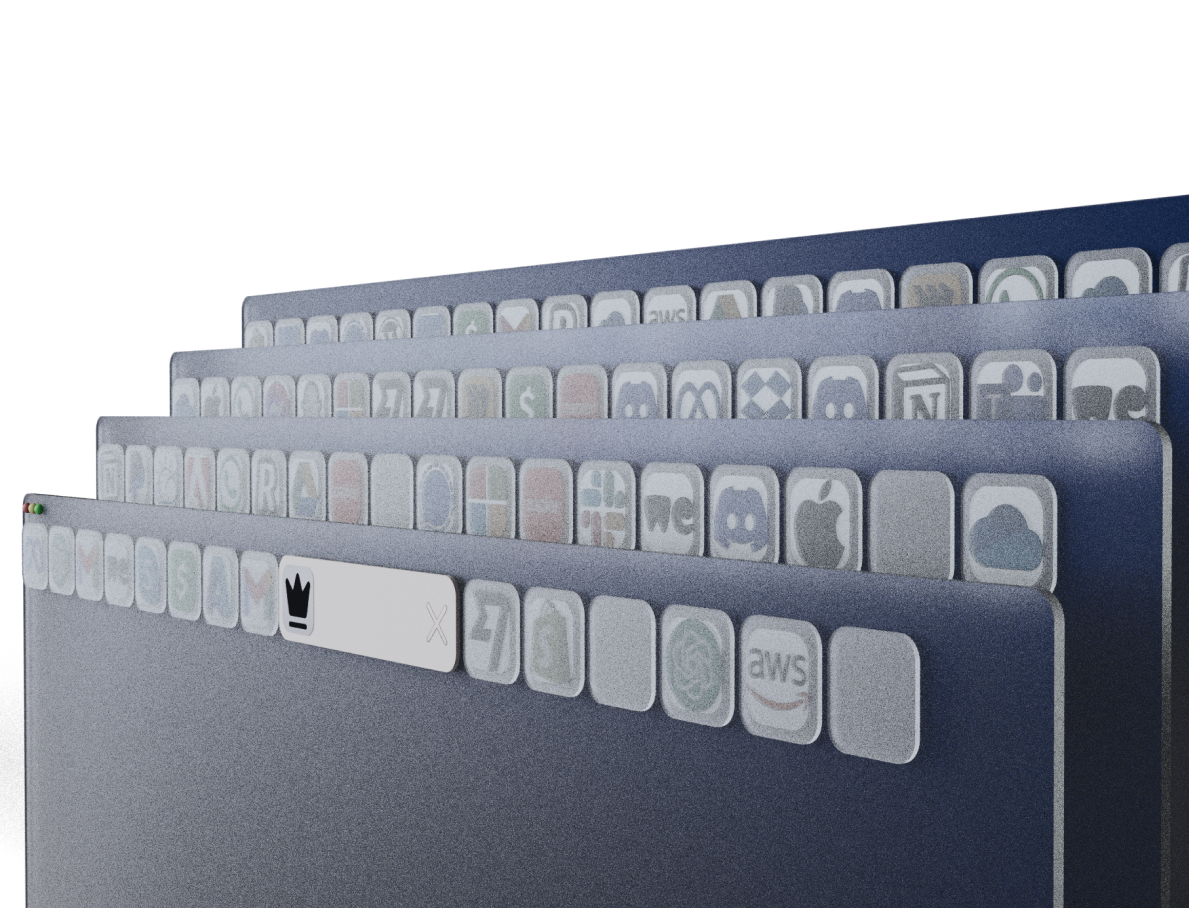
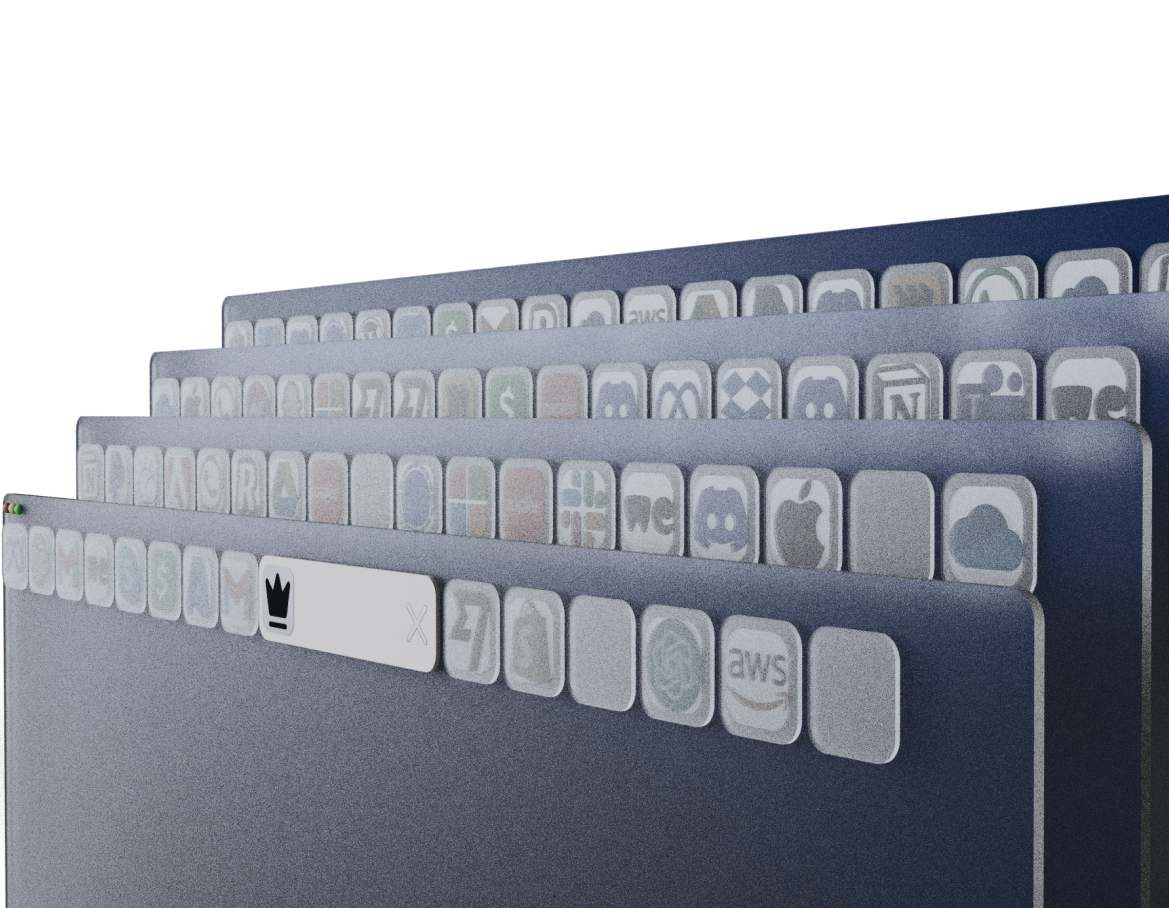
refactor layout and styles in index.html and index.css for improved responsiveness and visual consistency

diff --git a/public/index.css b/public/index.css
@@ -578,6 +578,34 @@ video {
   top: 0px;
 }
 
+.left-0 {
+  left: 0px;
+}
+
+.bottom-10 {
+  bottom: 2.5rem;
+}
+
+.-bottom-10 {
+  bottom: -2.5rem;
+}
+
+.-bottom-0 {
+  bottom: -0px;
+}
+
+.-bottom-1\/2 {
+  bottom: -50%;
+}
+
+.-bottom-1\/4 {
+  bottom: -25%;
+}
+
+.right-1\/2 {
+  right: 50%;
+}
+
 .-z-10 {
   z-index: -10;
 }
@@ -592,6 +620,10 @@ video {
 
 .m-auto {
   margin: auto;
+}
+
+.mt-0 {
+  margin-top: 0px;
 }
 
 .inline-block {
@@ -658,6 +690,30 @@ video {
   width: 100%;
 }
 
+.w-1\/2 {
+  width: 50%;
+}
+
+.w-2\/3 {
+  width: 66.666667%;
+}
+
+.w-2\/5 {
+  width: 40%;
+}
+
+.w-3\/4 {
+  width: 75%;
+}
+
+.w-3 {
+  width: 0.75rem;
+}
+
+.w-3\/5 {
+  width: 60%;
+}
+
 .max-w-lg {
   max-width: 32rem;
 }
@@ -672,6 +728,10 @@ video {
 
 .max-w-xs {
   max-width: 20rem;
+}
+
+.max-w-\[50\%\] {
+  max-width: 50%;
 }
 
 .flex-1 {
@@ -734,6 +794,14 @@ video {
   gap: 2rem;
 }
 
+.gap-1 {
+  gap: 0.25rem;
+}
+
+.gap-6 {
+  gap: 1.5rem;
+}
+
 .gap-x-2 {
   -moz-column-gap: 0.5rem;
        column-gap: 0.5rem;
@@ -786,6 +854,12 @@ video {
   --tw-space-y-reverse: 0;
   margin-top: calc(2rem * calc(1 - var(--tw-space-y-reverse)));
   margin-bottom: calc(2rem * var(--tw-space-y-reverse));
+}
+
+.space-y-0 > :not([hidden]) ~ :not([hidden]) {
+  --tw-space-y-reverse: 0;
+  margin-top: calc(0px * calc(1 - var(--tw-space-y-reverse)));
+  margin-bottom: calc(0px * var(--tw-space-y-reverse));
 }
 
 .rounded-full {
@@ -960,6 +1034,24 @@ video {
   opacity: 0.7;
 }
 
+.shadow-lg {
+  --tw-shadow: 0 10px 15px -3px rgb(0 0 0 / 0.1), 0 4px 6px -4px rgb(0 0 0 / 0.1);
+  --tw-shadow-colored: 0 10px 15px -3px var(--tw-shadow-color), 0 4px 6px -4px var(--tw-shadow-color);
+  box-shadow: var(--tw-ring-offset-shadow, 0 0 #0000), var(--tw-ring-shadow, 0 0 #0000), var(--tw-shadow);
+}
+
+.shadow {
+  --tw-shadow: 0 1px 3px 0 rgb(0 0 0 / 0.1), 0 1px 2px -1px rgb(0 0 0 / 0.1);
+  --tw-shadow-colored: 0 1px 3px 0 var(--tw-shadow-color), 0 1px 2px -1px var(--tw-shadow-color);
+  box-shadow: var(--tw-ring-offset-shadow, 0 0 #0000), var(--tw-ring-shadow, 0 0 #0000), var(--tw-shadow);
+}
+
+.shadow-xl {
+  --tw-shadow: 0 20px 25px -5px rgb(0 0 0 / 0.1), 0 8px 10px -6px rgb(0 0 0 / 0.1);
+  --tw-shadow-colored: 0 20px 25px -5px var(--tw-shadow-color), 0 8px 10px -6px var(--tw-shadow-color);
+  box-shadow: var(--tw-ring-offset-shadow, 0 0 #0000), var(--tw-ring-shadow, 0 0 #0000), var(--tw-shadow);
+}
+
 .transition-colors {
   transition-property: color, background-color, border-color, text-decoration-color, fill, stroke;
   transition-timing-function: cubic-bezier(0.4, 0, 0.2, 1);
@@ -972,8 +1064,18 @@ video {
   transition-duration: 150ms;
 }
 
+.transition-all {
+  transition-property: all;
+  transition-timing-function: cubic-bezier(0.4, 0, 0.2, 1);
+  transition-duration: 150ms;
+}
+
 .duration-150 {
   transition-duration: 150ms;
+}
+
+.duration-500 {
+  transition-duration: 500ms;
 }
 
 .noise_bg {
@@ -994,6 +1096,12 @@ video {
 
 .hover\:opacity-100:hover {
   opacity: 1;
+}
+
+.active\:shadow-sm:active {
+  --tw-shadow: 0 1px 2px 0 rgb(0 0 0 / 0.05);
+  --tw-shadow-colored: 0 1px 2px 0 var(--tw-shadow-color);
+  box-shadow: var(--tw-ring-offset-shadow, 0 0 #0000), var(--tw-ring-shadow, 0 0 #0000), var(--tw-shadow);
 }
 
 @media (min-width: 640px) {

diff --git a/index.html b/index.html
@@ -50,14 +50,11 @@
             <span style="cursor: url(/public/profile.png), auto;">I’m <b class="relative">Simdi</b></span>, and
             I can build you a website that communicates your
             value deeply to potential customers. At the heart of my work is
-            empathy.
-            <br /><br />
-            One thing I really love about design is how small details can
-            subtly shape people's experiences. It's not merely about
+            empathy.<br /><br />One thing I really love about design is how small details can subtly shape people's
+            experiences. It's not merely about
             aesthetics; it's about hitting that sweet spot where everything
             feels just right.
-            <br /><br />
-            This is why I find joy in crafting playful micro-animations,
+            <br /><br />This is why I find joy in crafting playful micro-animations,
             fine-tuning the perfect spring animation, and humanizing
             interactions to reflect genuine human intentions. Think about
             it—it's often the little things that make your day!
@@ -69,14 +66,14 @@
             <a href="#">nawafx</a>
             <br />
             <br />
-            I typically work with a minimum budget of $5000 monthly, paid
-            bi-weekly.
+            I typically work with a minimum budget of $5000 monthly on
+            bi-weekly basis.
         </p>
         <br />
         <br />
         <div class="max-w-lg m-auto w-full space-y-4">
             <button
-                class="bg-blue-500 p-3 transition-colors duration-150 hover:bg-blue-600 text-base text-white rounded-full w-full">
+                class="bg-blue-500 p-3 transition-all duration-500 active:shadow-sm hover:bg-blue-600 text-base text-white rounded-full w-full shadow-xl">
                 Book a Call
             </button>
             <div class="flex justify-between gap-2 items-center [&>hr]:border-blue-500 text-blue-500">
@@ -84,7 +81,7 @@
                 <span class="shrink-0"> Or contact me @</span>
                 <hr class="inline flex-1" />
             </div>
-            <ul class=" space-x-4">
+            <ul class="">
                 <li class="md:inline opacity-70 font-semibold hover:opacity-100 duration-150 transition-opacity">
                     <a href="#">X</a>
                 </li>
@@ -97,7 +94,8 @@
                 </li>
             </ul>
         </div>
-        <img class="absolute bottom-0 right-0 -z-10 hidden lg:block w-1/3" src="public/v1_window_3 1.png" />
+        <img class="absolute _bottom-0 -bottom-1/4 right-0 -z-10 hidden lg:block w-2/5 _w-2/5 _max-w-[50%]"
+            src="public/v1_window_3 1.png" />
     </main>
 </body>
 
